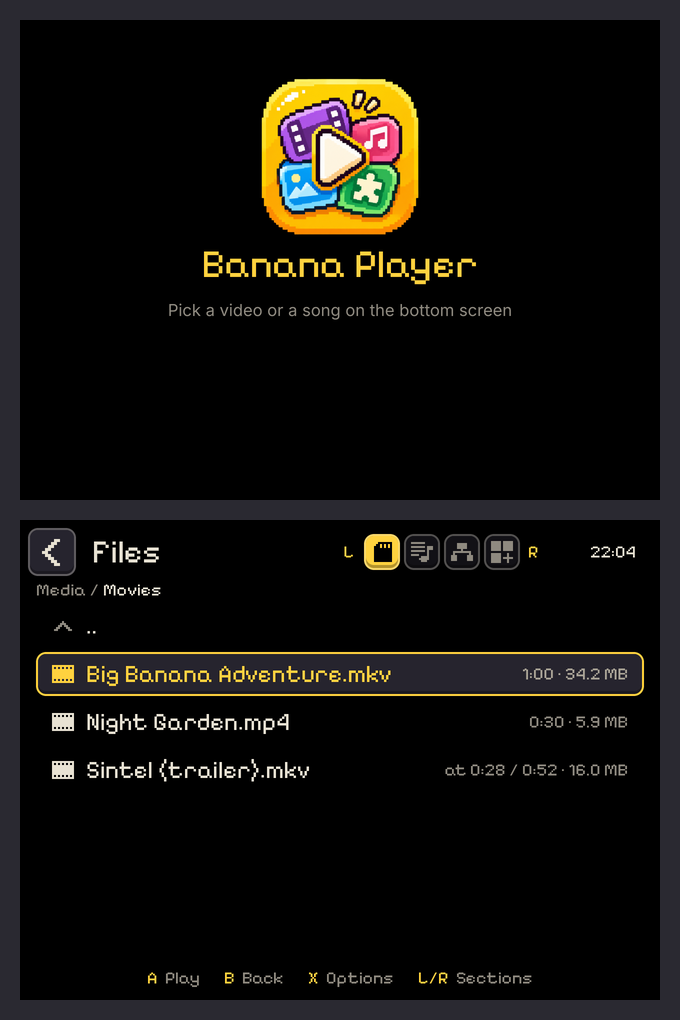
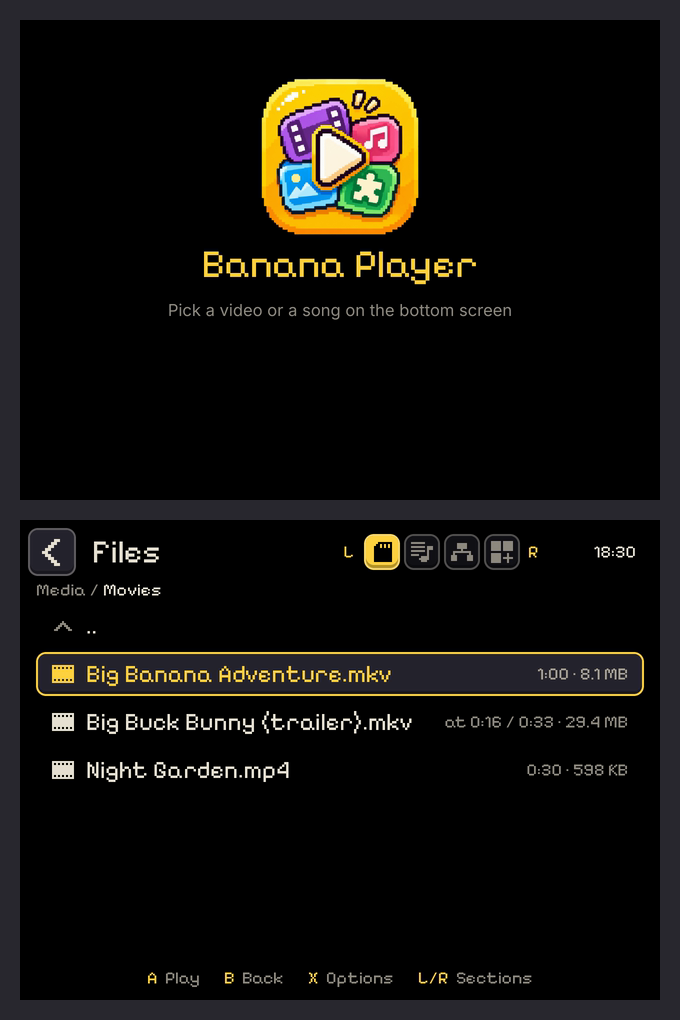
README: easier to read (eight one-line features, three install steps, six buttons in a table, short help, credits and warranty), and new pictures: the Sound page with the equalizer, and Big Buck Bunny (CC BY 3.0) in Your files, Movies and Photos instead of Sintel; the screenshot rule names it

diff --git a/README.md b/README.md
@@ -8,91 +8,65 @@
 
 <p align="center">
   <a href="#install">Install</a> ·
-  <a href="#the-basics">The basics</a> ·
+  <a href="#the-buttons-you-need">Buttons</a> ·
   <a href="FEATURES.md">All features</a> ·
-  <a href="#something-wrong">Help</a>
+  <a href="#need-help">Help</a>
 </p>
-
-Banana Player is a free video, music and photo player for [BananaOS](https://github.com/JorreFog/BananaLinux) on the
-Anbernic RG DS and RG DS Plus. Drop your files on the SD card, pick one, and watch. It remembers where you stopped a film,
-switches subtitles and audio tracks in a tap, turns a folder of songs into an album, lets you zoom around your
-photos with a finger, and reads manga across both screens. When a new version is out, it installs in one tap.
 
 <table>
   <tr>
-    <td align="center" width="33%"><img src="docs/img/screen-browser.png?v=0.7.11" alt="The file list on the bottom screen, the Banana Player logo on the top"><br><sub><b>Your files.</b> Icons, sizes, and where you left off in each film</sub></td>
-    <td align="center" width="33%"><img src="docs/img/screen-playing.png?v=0.7.11" alt="A film playing on the top screen, the controls on the bottom"><br><sub><b>Watching.</b> Seek, skip, chapters, speed, subtitles and audio tracks, by button or by touch</sub></td>
-    <td align="center" width="33%"><img src="docs/img/screen-music.png?v=0.7.11" alt="A song with its album art inside the Circle visualizer"><br><sub><b>Music.</b> Album art, a visualizer, or both (here: Circle)</sub></td>
+    <td align="center" width="33%"><img src="docs/img/screen-browser.png?v=0.7.11b" alt="The Movies folder on the bottom screen, showing where you left off in a film"><br><sub><b>Your files</b>, and where you left off</sub></td>
+    <td align="center" width="33%"><img src="docs/img/screen-playing.png?v=0.7.11b" alt="Big Buck Bunny playing on the top screen with a subtitle, the controls on the bottom"><br><sub><b>Movies</b> with chapters, subtitles and audio tracks</sub></td>
+    <td align="center" width="33%"><img src="docs/img/screen-music.png?v=0.7.11b" alt="A song with its album art inside the Circle visualizer"><br><sub><b>Music</b> with album art and a visualizer</sub></td>
   </tr>
   <tr>
-    <td align="center"><img src="docs/img/screen-sound.png?v=0.7.11" alt="The equalizer on the bottom screen, ten bands set to the Rock preset, under a song with the Circle visualizer"><br><sub><b>Sound.</b> A 10-band equalizer with presets, and room effects like Concert hall</sub></td>
-    <td align="center"><img src="docs/img/screen-photo.png?v=0.7.11" alt="A photo zoomed in on the top screen, the pan area and its buttons on the bottom"><br><sub><b>Photos.</b> Zoom in and drag the box to look around</sub></td>
-    <td align="center"><img src="docs/img/screen-manga.png?v=0.7.11" alt="A colour manga page across both screens: a late night at the desk, tea brought in, and a moment to rest"><br><sub><b>Manga.</b> A page across both screens, or one a screen held like a book</sub></td>
+    <td align="center"><img src="docs/img/screen-sound.png?v=0.7.11b" alt="The 10-band equalizer on the bottom screen, set to Rock, under a song with the Circle visualizer"><br><sub><b>A 10-band equalizer</b> and room effects</sub></td>
+    <td align="center"><img src="docs/img/screen-photo.png?v=0.7.11b" alt="A Big Buck Bunny still zoomed in on the top screen, the pan area on the bottom"><br><sub><b>Photos</b> you can zoom and explore</sub></td>
+    <td align="center"><img src="docs/img/screen-manga.png?v=0.7.11b" alt="A colour manga page across both screens: a late night at the desk, tea brought in, and a moment to rest"><br><sub><b>Manga</b> across both screens</sub></td>
   </tr>
 </table>
 
-## Why you'll like it
+## What it does
 
-- 🎬 **Videos:** MP4, MKV, AVI and more, with subtitles and audio tracks you can switch mid-film, and chapters you can jump between with L2 and R2, and playlists that mix your card and network.
-- 🎵 **Music:** a folder plays as an album, with the cover art, a visualizer, or both. Audiobooks (M4B) keep their chapters.
-- 🕶 **Incognito mode:** one tick in Quick settings and nothing you watch, listen to or read is remembered: no Recent, no manga History. Your places, playlists and downloads work as usual, a mark beside the clock (and on the web dashboard) shows it's on, and it switches itself off when Banana Player starts again.
-- 🎚 **A real equalizer and room effects:** ten bands, twelve presets (Bass Boost, Vocal, Rock, Jazz…) and your own saved ones, plus Concert hall, Church, Cave, Wide stereo and a Headphones mode. Heard the moment you change it. It shapes the handheld's sound; set it there or from the web dashboard.
-- ❤ **Playlists and Liked:** make playlists from your card and your network, and tap the heart on anything playing to keep it in Liked.
-- 🖼 **Photos:** zoom in, look around, step through a folder; scanned comics keep your zoom from page to page.
-- 📖 **Manga reader** (an extension, turned on in **Manage extensions**): read CBZ files and folders of pictures from
-  your card, a long strip across both screens or page by page, right to left or left to right. Add series from
-  repositories you choose, your own comic server (Komga, Kavita, OPDS) or a network folder, and download chapters to
-  read offline. Banana Player doesn't provide or check any repository's content.
-- 📡 **From your computer or NAS:** play straight from shared folders on your Wi-Fi (SMB or FTP), with nothing copied to the card.
-- 🌐 **Web dashboard:** manage files and playlists, upload from your computer, control the handheld, or play a song or film in your phone's or computer's browser. Scan the QR code on the handheld.
-- 👆 **Built for two screens:** the picture on top, every control a big button under your thumb below. Every page has the same header and a footer that names the buttons, and an on-screen keyboard takes care of typing.
-- 💾 **Remembers for you:** where you stopped a film, which subtitles you chose, what you played recently.
-- 🔄 **One-tap updates** when a new version is out, with no re-copying files to the SD card. Your settings stay put.
-
-Videos play on the handheld's CPU. The various 1080p videos we tested play well; very high bitrates, and HEVC (x265) especially, may drop frames.
+- 🎬 **Movies:** MP4, MKV and more. Switch subtitles and audio tracks mid-film, jump between chapters, pick up where you stopped.
+- 🎵 **Music:** a folder plays as an album, with its cover, a visualizer and a 10-band equalizer.
+- 🖼 **Photos:** zoom in and look around with a finger.
+- 📖 **Manga:** read across both screens, or hold the handheld sideways like a book. An optional extension.
+- 📡 **Your network:** play straight from your computer or NAS over Wi-Fi, nothing copied.
+- 🌐 **Web dashboard:** upload files, make playlists and control playback from your phone or computer.
+- 🕶 **Incognito mode:** while it's on, nothing you play is remembered.
+- 🔄 **Updates in one tap**, with your settings kept.
 
 ## Install
 
-> [!TIP]
-> **Latest: [Banana Player 0.7.11](https://github.com/tonywei92/banana-player/releases/tag/v0.7.11)**, for BananaOS on the
-> Anbernic RG DS and RG DS Plus.
+1. **Download** `BananaPlayer-0.7.11-aarch64.zip` from the [latest release](https://github.com/tonywei92/banana-player/releases/tag/v0.7.11).
+2. **Unzip it into `roms/ports`** on your SD card. You should see `Banana Player.sh`, a `BananaPlayer` folder and a
+   `media` folder there.
+3. **Open the Ports shelf** on the handheld and choose **Banana Player**.
 
-1. **Download** `BananaPlayer-0.7.11-aarch64.zip` from [the release](https://github.com/tonywei92/banana-player/releases/tag/v0.7.11).
-2. **Unzip it into `roms/ports`** on your SD card. You should end up with `Banana Player.sh`, a `BananaPlayer` folder
-   and a `media` folder there. (On a Mac, if the zip opens into a folder of its own, move those three out of it.)
-3. **Play:** put the card back in, open the **Ports** shelf and choose **Banana Player**.
+Put your videos, music and photos anywhere on the card. Most 1080p videos play smoothly; very high bitrates and HEVC
+(x265) may stutter.
 
-Your videos, music and photos can live anywhere on the card. From then on, Banana Player tells you when a new
-version is out and installs it for you.
+## The buttons you need
 
-## The basics
+| Button | What it does |
+|---|---|
+| **A** | Open, play, pause |
+| **B** | Back (on Home: quit) |
+| **L / R** | Previous / next |
+| **START** | Menu and Settings |
+| **Menu/Function** | Quick settings: volume, brightness, web dashboard |
+| **F + START** | Quit straight away |
 
-The buttons follow the Nintendo layout: **A** confirms, **B** goes back.
-
-- **Home:** what you played recently along the top, then **Files**, **Playlists**, **Network** and **Extensions**.
-  **L / R** move between them; **B** at the top of one comes back Home, and **B** on Home asks to quit.
-- **Open something:** tap it, or press **A**. A folder plays as a playlist.
-- **Play / pause:** **A**. **L / R** go to the previous or next file.
-- **Close it:** tap **<** at the top left, or press **B** twice.
-- **Like it:** tap **Like** (or click **L3** on the RG DS Plus); it goes to **Liked**. **Add** puts it in a playlist.
-- **Skip back or ahead:** **LEFT** goes back 5 seconds, **RIGHT** forward 10, or drag the bar.
-- **Network:** **X** then **Find on the network** finds your computer.
-- **Options** (refresh, hide a folder; on Network, add a connection): **X**.
-- **Menu** (what's playing, Settings, About): **START**. **L / R** switch its tabs.
-- **Quick settings** (volume, brightness, the web dashboard, **incognito mode**, quit): press the **Menu/Function** button.
-- **Quit straight away:** **F + START**.
-
-The bottom line of every page shows what the buttons do there.
-
-Every button has a touch equivalent on the bottom screen. Every control, setting and format is in
+Everything also works by touch, and the bottom line of each screen shows its buttons. The full list is in
 **[FEATURES.md](FEATURES.md)**.
 
-## Something wrong?
+## Need help?
 
-Plug the SD card into a computer and attach `home/.config/banana-player/log.txt` to an
-[issue](https://github.com/tonywei92/banana-player/issues), and `crash.log` beside it if there is one (it keeps a
-record of every crash). To uninstall, delete `Banana Player.sh`, the
-`BananaPlayer` folder and `media/box/Banana Player.png` from `roms/ports`.
+Put the SD card in a computer and attach `home/.config/banana-player/log.txt` (and `crash.log` if there is one) to an
+[issue](https://github.com/tonywei92/banana-player/issues).
+
+To uninstall, delete `Banana Player.sh`, the `BananaPlayer` folder and `media/box/Banana Player.png` from `roms/ports`.
 
 Want to build it or help out? See [DEVELOPMENT.md](DEVELOPMENT.md).
 
@@ -100,30 +74,29 @@ Want to build it or help out? See [DEVELOPMENT.md](DEVELOPMENT.md).
 
 - Made by [tonywei92](https://github.com/tonywei92) for [BananaOS](https://github.com/JorreFog/BananaLinux) by
   JorreFog and the Banana contributors.
-- Plays with [mpv](https://mpv.io) and [FFmpeg](https://ffmpeg.org). Drawn with [SDL](https://libsdl.org).
-- Network folders with [libsmb2](https://github.com/sahlberg/libsmb2) (LGPL 2.1) and [libcurl](https://curl.se).
-- The manga reader with [Lua](https://www.lua.org) (MIT), [lexbor](https://github.com/lexbor/lexbor) (Apache 2.0) and
-  [libjpeg-turbo](https://libjpeg-turbo.org) (BSD-style). Its optional manga engine is downloaded on request, not included:
-  [Suwayomi-Server](https://github.com/Suwayomi/Suwayomi-Server) (MPL 2.0) on a Java runtime.
-- Web dashboard with [cpp-httplib](https://github.com/yhirose/cpp-httplib) (MIT), [QR-Code-generator](https://github.com/nayuki/QR-Code-generator)
-  by Project Nayuki (MIT), [htm](https://github.com/developit/htm) with [Preact](https://preactjs.com) (Apache 2.0 and MIT)
-  and [SortableJS](https://sortablejs.github.io/Sortable/) (MIT).
+- Built on [mpv](https://mpv.io), [FFmpeg](https://ffmpeg.org) and [SDL](https://libsdl.org); network folders with
+  [libsmb2](https://github.com/sahlberg/libsmb2) (LGPL 2.1) and [libcurl](https://curl.se).
+- The manga reader uses [Lua](https://www.lua.org) (MIT), [lexbor](https://github.com/lexbor/lexbor) (Apache 2.0) and
+  [libjpeg-turbo](https://libjpeg-turbo.org) (BSD-style). Its optional manga engine,
+  [Suwayomi-Server](https://github.com/Suwayomi/Suwayomi-Server) (MPL 2.0) on a Java runtime, is downloaded only if
+  you ask for it.
+- The web dashboard uses [cpp-httplib](https://github.com/yhirose/cpp-httplib) (MIT),
+  [QR-Code-generator](https://github.com/nayuki/QR-Code-generator) by Project Nayuki (MIT),
+  [htm](https://github.com/developit/htm) with [Preact](https://preactjs.com) (Apache 2.0 and MIT) and
+  [SortableJS](https://sortablejs.github.io/Sortable/) (MIT).
 - Fonts: [Pixelify Sans](https://github.com/eifetx/Pixelify-Sans), [Inter](https://github.com/rsms/inter),
   [Fusion Pixel](https://github.com/TakWolf/fusion-pixel-font) and [Noto Sans](https://notofonts.github.io) Thai,
-  Arabic, Hebrew and Devanagari, under the SIL Open Font License 1.1.
-- The film in the screenshots is [Sintel](https://durian.blender.org), © copyright Blender Foundation |
-  durian.blender.org, under [CC BY 3.0](https://creativecommons.org/licenses/by/3.0/). The manga page in them was made
-  for Banana Player, not taken from any series.
+  Arabic, Hebrew and Devanagari (SIL Open Font License 1.1).
+- The film in the screenshots is [Big Buck Bunny](https://peach.blender.org), © copyright Blender Foundation |
+  www.bigbuckbunny.org, under [CC BY 3.0](https://creativecommons.org/licenses/by/3.0/) (subtitles and chapters added
+  for the pictures). The manga page was made for Banana Player; the music and its cover are generated.
 
 ## No warranty
 
-Banana Player is free software provided **as is, with no warranty of any kind**. Use it at your own risk: the authors
-aren't responsible for any damage to your handheld, lost or corrupted files, or anything else that happens from using
-it. That's what the [MIT licence](LICENSE) says too; the licence is the full text.
-
-- **Manga sources and extensions** come from third parties. Banana Player doesn't host, check or vouch for what they
-  serve, and what you read through them is up to you and the laws where you live.
-- **BananaOS** is a separate project. Banana Player isn't made, checked or endorsed by its authors.
+Banana Player is free and comes **as is, with no warranty**: use it at your own risk. The authors aren't responsible
+for any damage to your handheld, lost files, or anything else that happens from using it. Manga sources are run by
+third parties, and Banana Player doesn't host or vouch for what they serve. BananaOS is a separate project that
+doesn't endorse Banana Player.
 
 ## Licence
 

diff --git a/docs/workflow.md b/docs/workflow.md
@@ -31,7 +31,7 @@ Moved out of CLAUDE.md word for word (CLAUDE.md keeps the commands and a line on
   `._Banana Player.sh` shows up as a broken port).
 - **Releasing:** (1) bump `project(... VERSION x.y.z)` in `CMakeLists.txt`, the README's install links
   (`releases/tag/vx.y.z`, the zip's name) and the `?v=x.y.z` on its screenshot links (images are cached by URL);
-  regenerate the pictures first if a pictured screen changed (Sintel library; the Network shot needs the Docker Samba and
+  regenerate the pictures first if a pictured screen changed (the Big Buck Bunny trailer, with chapters and subtitles added; the Network shot needs the Docker Samba and
   FTP servers). (2) Commit, push, `build-bundle.sh`, `shasum -a 256` the zip into `<zip>.sha256`. (3)
   `gh release create vx.y.z --target main --latest <zip> <zip>.sha256`, then prepend "Superseded by…" to the previous
   release's notes. (4) The BananaOS Store follows the releases (asset `BananaPlayer-{version}-aarch64.zip`, tag prefix

diff --git a/CLAUDE.md b/CLAUDE.md
@@ -74,7 +74,7 @@ tools/make-sprite.py                                 # web/sprite.svg from the G
 - **Playlists:** Liked is built in (only the heart adds to it). **Network:** `bpnet://<server-id>/<path>`, never
   credentials; passwords sealed by `secret.*`.
 - **Fonts:** SDL_ttf has no fallback (`Ui::runs()`); libass uses only the bundle's fonts.
-- **Style:** tabs; comments say why. Screenshots and promo use Blender's *Sintel* (CC BY 3.0) and generated media
+- **Style:** tabs; comments say why. Screenshots and promo use Blender's *Big Buck Bunny* (CC BY 3.0; older pictures *Sintel*) and generated media
   only; no copyrighted material and none of the owner's own files. Public text never compares to other apps by name.
 
 ## BananaOS (full list: docs/bananaos.md)

diff --git a/docs/architecture.md b/docs/architecture.md
@@ -303,7 +303,7 @@ CLAUDE.md now keeps one line per rule; this is the full text it had, kept here w
   `Ui::backFromPlayer`. See "Photos" above and docs/notes/2026-11-10-photos-over-media.md.)
 - **Fonts:** SDL_ttf has no fallback (`Ui::runs()` picks per run); libass uses the bundle's `fonts.conf` (player's fonts
   only). The icon's 32×32 grid lives in both `packaging/icon/make-icon.py` and `src/logo.h`: change both.
-- **Code style:** tabs; comments say why, not what. Screenshots/README use Blender's *Sintel* (CC BY 3.0); no
+- **Code style:** tabs; comments say why, not what. Screenshots/README use Blender's *Big Buck Bunny* (CC BY 3.0; older pictures *Sintel*); no
   copyrighted material.
 
 
